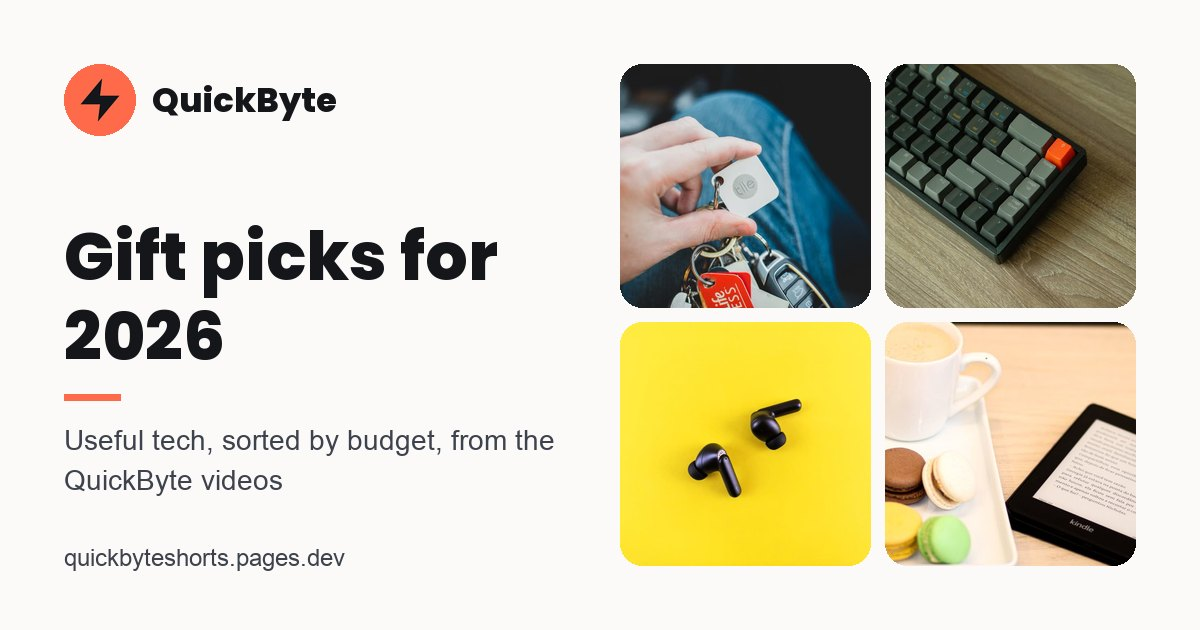
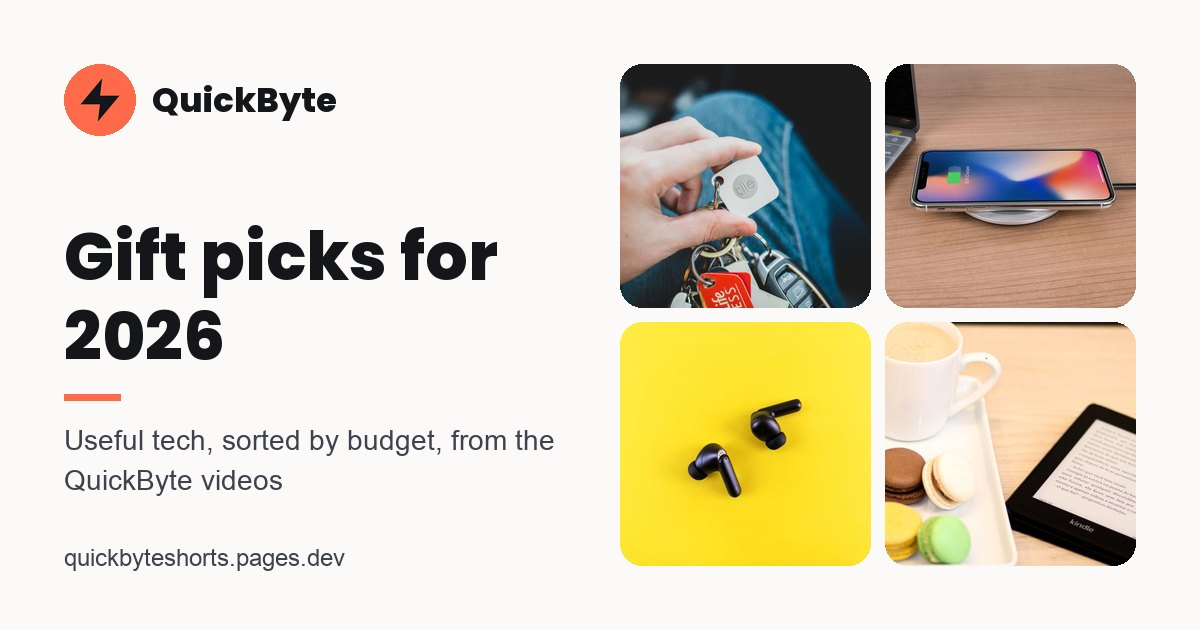
Automated cycle: update landing page

Changed region(s): [[0.74, 0.0905, 0.9558, 0.5127]]

diff --git a/docs/index.html b/docs/index.html
@@ -89,7 +89,7 @@ footer{color:var(--muted);font-size:.82rem;text-align:center;padding:24px 20px 3
 footer a{color:inherit}
 @media (max-width:520px){.season{font-size:1.45rem}.wrap{padding-top:26px}.feature .name{font-size:1.15rem}}
 </style>
-<script type="application/ld+json">{"@context": "https://schema.org", "@graph": [{"@type": "WebSite", "@id": "https://quickbyteshorts.pages.dev/#website", "name": "QuickByte", "url": "https://quickbyteshorts.pages.dev/", "description": "Short videos on which tech is worth buying, and which isn't"}, {"@type": "ItemList", "name": "Gift picks for 2026", "numberOfItems": 17, "itemListElement": [{"@type": "ListItem", "position": 1, "name": "Tile Mate tracker", "url": "https://quickbyteshorts.pages.dev/#pick-tile-mate"}, {"@type": "ListItem", "position": 2, "name": "Anker Nano 30W USB-C charger", "url": "https://quickbyteshorts.pages.dev/#pick-anker-nano-charger"}, {"@type": "ListItem", "position": 3, "name": "UGREEN 240W USB-C cable (USB4)", "url": "https://quickbyteshorts.pages.dev/#pick-ugreen-usb4-cable"}, {"@type": "ListItem", "position": 4, "name": "Redragon K552 mechanical keyboard", "url": "https://quickbyteshorts.pages.dev/#pick-redragon-k552-keyboard"}, {"@type": "ListItem", "position": 5, "name": "Anker Nano power bank (10,000mAh)", "url": "https://quickbyteshorts.pages.dev/#pick-anker-nano-power-bank"}, {"@type": "ListItem", "position": 6, "name": "Kindle Paperwhite", "url": "https://quickbyteshorts.pages.dev/#pick-kindle-paperwhite"}, {"@type": "ListItem", "position": 7, "name": "ThermoPro TP19H instant-read thermometer", "url": "https://quickbyteshorts.pages.dev/#pick-thermopro-tp19h"}, {"@type": "ListItem", "position": 8, "name": "MagicFiber microfiber cloths (6-pack)", "url": "https://quickbyteshorts.pages.dev/#pick-magicfiber-cloths"}, {"@type": "ListItem", "position": 9, "name": "Belkin Qi2 magnetic charger", "url": "https://quickbyteshorts.pages.dev/#pick-belkin-qi2-charger"}, {"@type": "ListItem", "position": 10, "name": "4K streaming stick", "url": "https://quickbyteshorts.pages.dev/#pick-streaming-stick"}, {"@type": "ListItem", "position": 11, "name": "Echo Pop or Nest Mini", "url": "https://quickbyteshorts.pages.dev/#pick-smart-speaker"}, {"@type": "ListItem", "position": 12, "name": "Soundcore Liberty 4 NC earbuds", "url": "https://quickbyteshorts.pages.dev/#pick-soundcore-liberty-4-nc"}, {"@type": "ListItem", "position": 13, "name": "Kodak Step mini photo printer", "url": "https://quickbyteshorts.pages.dev/#pick-kodak-step-printer"}, {"@type": "ListItem", "position": 14, "name": "Cosori Pro LE 5-quart air fryer", "url": "https://quickbyteshorts.pages.dev/#pick-cosori-air-fryer-5qt"}, {"@type": "ListItem", "position": 15, "name": "Baratza Encore burr grinder", "url": "https://quickbyteshorts.pages.dev/#pick-baratza-encore"}, {"@type": "ListItem", "position": 16, "name": "Wi-Fi photo frame", "url": "https://quickbyteshorts.pages.dev/#pick-wifi-photo-frame"}, {"@type": "ListItem", "position": 17, "name": "Samsung 870 EVO SSD (500GB)", "url": "https://quickbyteshorts.pages.dev/#pick-samsung-870-evo-ssd"}]}]}</script>
+<script type="application/ld+json">{"@context": "https://schema.org", "@graph": [{"@type": "WebSite", "@id": "https://quickbyteshorts.pages.dev/#website", "name": "QuickByte", "url": "https://quickbyteshorts.pages.dev/", "description": "Short videos on which tech is worth buying, and which isn't"}, {"@type": "ItemList", "name": "Gift picks for 2026", "numberOfItems": 17, "itemListElement": [{"@type": "ListItem", "position": 1, "name": "Tile Mate tracker", "url": "https://quickbyteshorts.pages.dev/#pick-tile-mate"}, {"@type": "ListItem", "position": 2, "name": "Anker Nano 30W USB-C charger", "url": "https://quickbyteshorts.pages.dev/#pick-anker-nano-charger"}, {"@type": "ListItem", "position": 3, "name": "UGREEN 240W USB-C cable (USB4)", "url": "https://quickbyteshorts.pages.dev/#pick-ugreen-usb4-cable"}, {"@type": "ListItem", "position": 4, "name": "Belkin Qi2 magnetic charger", "url": "https://quickbyteshorts.pages.dev/#pick-belkin-qi2-charger"}, {"@type": "ListItem", "position": 5, "name": "Redragon K552 mechanical keyboard", "url": "https://quickbyteshorts.pages.dev/#pick-redragon-k552-keyboard"}, {"@type": "ListItem", "position": 6, "name": "Anker Nano power bank (10,000mAh)", "url": "https://quickbyteshorts.pages.dev/#pick-anker-nano-power-bank"}, {"@type": "ListItem", "position": 7, "name": "Kindle Paperwhite", "url": "https://quickbyteshorts.pages.dev/#pick-kindle-paperwhite"}, {"@type": "ListItem", "position": 8, "name": "ThermoPro TP19H instant-read thermometer", "url": "https://quickbyteshorts.pages.dev/#pick-thermopro-tp19h"}, {"@type": "ListItem", "position": 9, "name": "MagicFiber microfiber cloths (6-pack)", "url": "https://quickbyteshorts.pages.dev/#pick-magicfiber-cloths"}, {"@type": "ListItem", "position": 10, "name": "4K streaming stick", "url": "https://quickbyteshorts.pages.dev/#pick-streaming-stick"}, {"@type": "ListItem", "position": 11, "name": "Echo Pop or Nest Mini", "url": "https://quickbyteshorts.pages.dev/#pick-smart-speaker"}, {"@type": "ListItem", "position": 12, "name": "Soundcore Liberty 4 NC earbuds", "url": "https://quickbyteshorts.pages.dev/#pick-soundcore-liberty-4-nc"}, {"@type": "ListItem", "position": 13, "name": "Kodak Step mini photo printer", "url": "https://quickbyteshorts.pages.dev/#pick-kodak-step-printer"}, {"@type": "ListItem", "position": 14, "name": "Cosori Pro LE 5-quart air fryer", "url": "https://quickbyteshorts.pages.dev/#pick-cosori-air-fryer-5qt"}, {"@type": "ListItem", "position": 15, "name": "Baratza Encore burr grinder", "url": "https://quickbyteshorts.pages.dev/#pick-baratza-encore"}, {"@type": "ListItem", "position": 16, "name": "Wi-Fi photo frame", "url": "https://quickbyteshorts.pages.dev/#pick-wifi-photo-frame"}, {"@type": "ListItem", "position": 17, "name": "Samsung 870 EVO SSD (500GB)", "url": "https://quickbyteshorts.pages.dev/#pick-samsung-870-evo-ssd"}]}]}</script>
 </head>
 <body>
 <div class="wrap">
@@ -98,18 +98,18 @@ footer a{color:inherit}
 <nav class="socials" aria-label="QuickByte on social media"><a href="https://www.youtube.com/@quickbytetips" target="_blank" rel="noopener me">YouTube</a><a href="https://www.tiktok.com/@quickbytetips" target="_blank" rel="noopener me">TikTok</a><a href="https://www.instagram.com/quickbytetips" target="_blank" rel="noopener me">Instagram</a></nav>
 <p class="disc">The Amazon links on this page are affiliate links. As an Amazon Associate I earn from qualifying purchases.</p>
 <main>
-<section class="latest" aria-labelledby="latest-h"><h2 id="latest-h">From today's video</h2><article class="feature"><div class="ph"><picture><source type="image/webp" srcset="img/kindle-e-reader-480.webp 480w, img/kindle-e-reader-800.webp 800w" sizes="(max-width:700px) calc(100vw - 40px), 500px"><img src="img/kindle-e-reader.jpg" alt="" width="800" height="600" fetchpriority="high" decoding="async"></picture></div><div class="body">
+<section class="latest" aria-labelledby="latest-h"><h2 id="latest-h">From today's video</h2><article class="feature"><div class="ph"><picture><source type="image/webp" srcset="img/qi2-magnetic-wireless-charger-480.webp 480w, img/qi2-magnetic-wireless-charger-800.webp 800w" sizes="(max-width:700px) calc(100vw - 40px), 500px"><img src="img/qi2-magnetic-wireless-charger.jpg" alt="" width="800" height="600" fetchpriority="high" decoding="async"></picture></div><div class="body">
+<h3 class="name">Belkin Qi2 magnetic charger</h3>
+<p class="seen">From the video: Qi2 vs MagSafe: do you need a new wireless charger?</p><p class="note">Snaps into place so the phone charges at full speed instead of running warm on a misaligned pad.</p>
+<div class="row"><a class="buy" href="https://www.amazon.com/dp/B0F8LMHB64?tag=quickbyte0f-20" target="_blank" rel="sponsored nofollow noopener">See it on Amazon</a><span class="paid">Paid link</span></div>
+</div></article><h2>Also from recent videos</h2><div class="grid wide"><article class="pick compact"><div class="ph"><picture><source type="image/webp" srcset="img/kindle-e-reader-480.webp 480w, img/kindle-e-reader-800.webp 800w" sizes="160px"><img src="img/kindle-e-reader.jpg" alt="" width="800" height="600" loading="lazy" decoding="async"></picture></div><div class="body">
 <h3 class="name">Kindle Paperwhite</h3>
-<p class="seen">From the video: Kindle or a tablet: what to get the reader on your list</p><p class="note">Paper-like screen, weeks of battery and nothing pinging them mid-chapter. In the US it borrows library books through Libby.</p>
-<div class="row"><a class="buy" href="https://www.amazon.com/s?k=Kindle+Paperwhite&amp;tag=quickbyte0f-20" target="_blank" rel="sponsored nofollow noopener">See it on Amazon</a><span class="paid">Paid link</span></div>
-</div></article><h2>Also from recent videos</h2><div class="grid wide"><article class="pick compact"><div class="ph"><picture><source type="image/webp" srcset="img/tile-mate-bluetooth-tracker-480.webp 480w, img/tile-mate-bluetooth-tracker-800.webp 800w" sizes="160px"><img src="img/tile-mate-bluetooth-tracker.jpg" alt="" width="800" height="600" loading="lazy" decoding="async"></picture></div><div class="body">
+<p class="seen">From: Kindle or a tablet: what to get the reader on your list</p><p class="note">Paper-like screen, weeks of battery and nothing pinging them mid-chapter. In the US it borrows library books through Libby.</p>
+<div class="row"><a class="buy" href="https://www.amazon.com/s?k=Kindle+Paperwhite&amp;tag=quickbyte0f-20" target="_blank" rel="sponsored nofollow noopener">See it on Amazon</a><span class="paid">Paid link</span><a class="watch" href="https://www.youtube.com/shorts/ZfM51qdsPx0" target="_blank" rel="noopener">Watch the video</a></div>
+</div></article><article class="pick compact"><div class="ph"><picture><source type="image/webp" srcset="img/tile-mate-bluetooth-tracker-480.webp 480w, img/tile-mate-bluetooth-tracker-800.webp 800w" sizes="160px"><img src="img/tile-mate-bluetooth-tracker.jpg" alt="" width="800" height="600" loading="lazy" decoding="async"></picture></div><div class="body">
 <h3 class="name">Tile Mate tracker</h3>
 <p class="seen">From: AirTag or Tile? Check their phone before you buy one</p><p class="note">Works with iPhone and Android, so it&#x27;s the safe tracker gift when you don&#x27;t know what phone they have.</p>
 <div class="row"><a class="buy" href="https://www.amazon.com/dp/B09998MBFM?tag=quickbyte0f-20" target="_blank" rel="sponsored nofollow noopener">See it on Amazon</a><span class="paid">Paid link</span><a class="watch" href="https://www.youtube.com/shorts/zlaf1SSanx8" target="_blank" rel="noopener">Watch the video</a></div>
-</div></article><article class="pick compact"><div class="ph"><picture><source type="image/webp" srcset="img/30w-usb-c-pd-gan-charger-480.webp 480w, img/30w-usb-c-pd-gan-charger-800.webp 800w" sizes="160px"><img src="img/30w-usb-c-pd-gan-charger.jpg" alt="" width="800" height="600" loading="lazy" decoding="async"></picture></div><div class="body">
-<h3 class="name">Anker Nano 30W USB-C charger</h3>
-<p class="seen">From: Your phone charges slowly because of the brick, not the cable</p><p class="note">Most phones don&#x27;t come with a charger anymore, and this one is pocket-sized but fast enough for a phone or an iPad.</p>
-<div class="row"><a class="buy" href="https://www.amazon.com/dp/B0B2MM1W65?tag=quickbyte0f-20" target="_blank" rel="sponsored nofollow noopener">See it on Amazon</a><span class="paid">Paid link</span><a class="watch" href="https://www.youtube.com/shorts/07cvN6GbG20" target="_blank" rel="noopener">Watch the video</a></div>
 </div></article></div></section><h1 class="season" id="gifts">Gift picks for 2026</h1><p class="season-sub">Each pick comes from a QuickByte video (a few of those videos are still on the way). Useful things, sensibly priced, that we'd tell a friend to buy. Sorted by budget.</p><nav class="jump" aria-label="Budgets"><a href="#under-25">Under $25</a><a href="#under-50">Under $50</a><a href="#under-100">Under $100</a><a href="#worth-the-splurge">Worth the splurge</a></nav><h2 id="under-25">Under $25</h2><div class="grid"><article class="pick" id="pick-tile-mate"><div class="ph"><picture><source type="image/webp" srcset="img/tile-mate-bluetooth-tracker-480.webp 480w, img/tile-mate-bluetooth-tracker-800.webp 800w" sizes="(max-width:640px) calc(100vw - 40px), 320px"><img src="img/tile-mate-bluetooth-tracker.jpg" alt="" width="800" height="600" loading="lazy" decoding="async"></picture></div><div class="body">
 <h3 class="name">Tile Mate tracker</h3>
 <p class="note">Works with iPhone and Android, so it&#x27;s the safe tracker gift when you don&#x27;t know what phone they have.</p>
@@ -130,7 +130,11 @@ footer a{color:inherit}
 <h3 class="name">MagicFiber microfiber cloths (6-pack)</h3>
 <p class="note">The only thing that should touch a screen. Cheap, washable, and a solid stocking stuffer.</p>
 <div class="row"><a class="buy" href="https://www.amazon.com/dp/B0050R67U0?tag=quickbyte0f-20" target="_blank" rel="sponsored nofollow noopener">See it on Amazon</a><span class="paid">Paid link</span></div>
-</div></article></div><h2 id="under-50">Under $50</h2><div class="grid"><article class="pick" id="pick-redragon-k552-keyboard"><div class="ph"><picture><source type="image/webp" srcset="img/budget-mechanical-keyboard-480.webp 480w, img/budget-mechanical-keyboard-800.webp 800w" sizes="(max-width:640px) calc(100vw - 40px), 320px"><img src="img/budget-mechanical-keyboard.jpg" alt="" width="800" height="600" loading="lazy" decoding="async"></picture></div><div class="body">
+</div></article></div><h2 id="under-50">Under $50</h2><div class="grid"><article class="pick" id="pick-belkin-qi2-charger"><div class="ph"><picture><source type="image/webp" srcset="img/qi2-magnetic-wireless-charger-480.webp 480w, img/qi2-magnetic-wireless-charger-800.webp 800w" sizes="(max-width:640px) calc(100vw - 40px), 320px"><img src="img/qi2-magnetic-wireless-charger.jpg" alt="" width="800" height="600" loading="lazy" decoding="async"></picture></div><div class="body">
+<h3 class="name">Belkin Qi2 magnetic charger</h3>
+<p class="note">Snaps into place so the phone charges at full speed instead of running warm on a misaligned pad.</p>
+<div class="row"><a class="buy" href="https://www.amazon.com/dp/B0F8LMHB64?tag=quickbyte0f-20" target="_blank" rel="sponsored nofollow noopener">See it on Amazon</a><span class="paid">Paid link</span></div>
+</div></article><article class="pick" id="pick-redragon-k552-keyboard"><div class="ph"><picture><source type="image/webp" srcset="img/budget-mechanical-keyboard-480.webp 480w, img/budget-mechanical-keyboard-800.webp 800w" sizes="(max-width:640px) calc(100vw - 40px), 320px"><img src="img/budget-mechanical-keyboard.jpg" alt="" width="800" height="600" loading="lazy" decoding="async"></picture></div><div class="body">
 <h3 class="name">Redragon K552 mechanical keyboard</h3>
 <p class="note">A compact, sturdy mechanical board for a fraction of the big-name price. Great first keyboard for a teen or a new desk setup.</p>
 <div class="row"><a class="buy" href="https://www.amazon.com/dp/B016MAK38U?tag=quickbyte0f-20" target="_blank" rel="sponsored nofollow noopener">See it on Amazon</a><span class="paid">Paid link</span><a class="watch" href="https://www.youtube.com/shorts/F7UZa16uvv4" target="_blank" rel="noopener">Watch the video</a></div>
@@ -138,10 +142,6 @@ footer a{color:inherit}
 <h3 class="name">Anker Nano power bank (10,000mAh)</h3>
 <p class="note">Built-in USB-C cable and 30W output, so it actually fast-charges a phone instead of trickling.</p>
 <div class="row"><a class="buy" href="https://www.amazon.com/dp/B0C9CJKCH3?tag=quickbyte0f-20" target="_blank" rel="sponsored nofollow noopener">See it on Amazon</a><span class="paid">Paid link</span><a class="watch" href="https://www.youtube.com/shorts/fx5Mr8gkuYM" target="_blank" rel="noopener">Watch the video</a></div>
-</div></article><article class="pick" id="pick-belkin-qi2-charger"><div class="ph"><picture><source type="image/webp" srcset="img/qi2-magnetic-wireless-charger-480.webp 480w, img/qi2-magnetic-wireless-charger-800.webp 800w" sizes="(max-width:640px) calc(100vw - 40px), 320px"><img src="img/qi2-magnetic-wireless-charger.jpg" alt="" width="800" height="600" loading="lazy" decoding="async"></picture></div><div class="body">
-<h3 class="name">Belkin Qi2 magnetic charger</h3>
-<p class="note">Snaps into place so the phone charges at full speed instead of running warm on a misaligned pad.</p>
-<div class="row"><a class="buy" href="https://www.amazon.com/dp/B0F8LMHB64?tag=quickbyte0f-20" target="_blank" rel="sponsored nofollow noopener">See it on Amazon</a><span class="paid">Paid link</span></div>
 </div></article><article class="pick" id="pick-streaming-stick"><div class="ph"><picture><source type="image/webp" srcset="img/4k-streaming-stick-480.webp 480w, img/4k-streaming-stick-800.webp 800w" sizes="(max-width:640px) calc(100vw - 40px), 320px"><img src="img/4k-streaming-stick.jpg" alt="" width="800" height="600" loading="lazy" decoding="async"></picture></div><div class="body">
 <h3 class="name">4K streaming stick</h3>
 <p class="note">The cheapest way to make an older or slow smart TV feel new. Roku, Fire TV and Google TV all have the big apps.</p>
@@ -165,7 +165,7 @@ footer a{color:inherit}
 </div></article></div><h2 id="worth-the-splurge">Worth the splurge</h2><div class="grid"><article class="pick" id="pick-kindle-paperwhite"><div class="ph"><picture><source type="image/webp" srcset="img/kindle-e-reader-480.webp 480w, img/kindle-e-reader-800.webp 800w" sizes="(max-width:640px) calc(100vw - 40px), 320px"><img src="img/kindle-e-reader.jpg" alt="" width="800" height="600" loading="lazy" decoding="async"></picture></div><div class="body">
 <h3 class="name">Kindle Paperwhite</h3>
 <p class="note">Paper-like screen, weeks of battery and nothing pinging them mid-chapter. In the US it borrows library books through Libby.</p>
-<div class="row"><a class="buy" href="https://www.amazon.com/s?k=Kindle+Paperwhite&amp;tag=quickbyte0f-20" target="_blank" rel="sponsored nofollow noopener">See it on Amazon</a><span class="paid">Paid link</span></div>
+<div class="row"><a class="buy" href="https://www.amazon.com/s?k=Kindle+Paperwhite&amp;tag=quickbyte0f-20" target="_blank" rel="sponsored nofollow noopener">See it on Amazon</a><span class="paid">Paid link</span><a class="watch" href="https://www.youtube.com/shorts/ZfM51qdsPx0" target="_blank" rel="noopener">Watch the video</a></div>
 </div></article><article class="pick" id="pick-baratza-encore"><div class="ph"><picture><source type="image/webp" srcset="img/conical-burr-coffee-grinder-480.webp 480w, img/conical-burr-coffee-grinder-800.webp 800w" sizes="(max-width:640px) calc(100vw - 40px), 320px"><img src="img/conical-burr-coffee-grinder.jpg" alt="" width="800" height="600" loading="lazy" decoding="async"></picture></div><div class="body">
 <h3 class="name">Baratza Encore burr grinder</h3>
 <p class="note">Grinds every bean to the same size, which does more for the taste of your coffee than a new coffee maker.</p>
@@ -178,7 +178,7 @@ footer a{color:inherit}
 <h3 class="name">Samsung 870 EVO SSD (500GB)</h3>
 <p class="note">The upgrade that makes an old laptop boot in seconds instead of minutes. Check that your laptop takes a 2.5-inch drive first.</p>
 <div class="row"><a class="buy" href="https://www.amazon.com/dp/B08QBMD6P4?tag=quickbyte0f-20" target="_blank" rel="sponsored nofollow noopener">See it on Amazon</a><span class="paid">Paid link</span></div>
-</div></article></div><p class="fine">We earn a small commission if you buy through these links, at no extra cost to you, and nobody pays to be on this page. Budget groups are based on typical prices when we chose each pick; Amazon shows the current price. Photos show the kind of product, not always the exact model.</p><h2 id="videos">Latest videos</h2><ul class="vids"><li><a href="https://www.youtube.com/shorts/HFDecg8Sfrk" target="_blank" rel="noopener"><span>Travel eSIM vs your carrier&#x27;s day pass: what to use abroad</span><span>Watch</span></a></li><li><a href="https://www.youtube.com/shorts/zlaf1SSanx8" target="_blank" rel="noopener"><span>AirTag or Tile? Check their phone before you buy one</span><span>Watch</span></a></li><li><a href="https://www.youtube.com/shorts/07cvN6GbG20" target="_blank" rel="noopener"><span>Your phone charges slowly because of the brick, not the cable</span><span>Watch</span></a></li><li><a href="https://www.youtube.com/shorts/c_vExPM8O3w" target="_blank" rel="noopener"><span>Three tech gifts under $30 people actually use</span><span>Watch</span></a></li><li><a href="https://www.youtube.com/shorts/0XX0cCefPyw" target="_blank" rel="noopener"><span>eSIM vs a physical SIM card: what actually changes for you</span><span>Watch</span></a></li><li><a href="https://www.youtube.com/shorts/2sWIIXGx2iw" target="_blank" rel="noopener"><span>You don&#x27;t need a $1,000 phone. Here&#x27;s what the expensive one actually adds</span><span>Watch</span></a></li><li><a href="https://www.youtube.com/shorts/p5rjeAwEhS0" target="_blank" rel="noopener"><span>Why two identical USB-C cables can charge at totally different speeds</span><span>Watch</span></a></li><li><a href="https://www.youtube.com/shorts/Bk_amU1xUcM" target="_blank" rel="noopener"><span>Three signs a cheap charger is actually dangerous, not just low quality</span><span>Watch</span></a></li><li><a href="https://www.youtube.com/shorts/knvkyxutnIs" target="_blank" rel="noopener"><span>That old phone in your drawer can replace a $60 security camera</span><span>Watch</span></a></li><li><a href="https://www.youtube.com/shorts/KJKDggHqN4Y" target="_blank" rel="noopener"><span>Why the USB-C switch actually matters, not just for cables</span><span>Watch</span></a></li><li><a href="https://www.youtube.com/shorts/F7UZa16uvv4" target="_blank" rel="noopener"><span>You don&#x27;t need a $150 keyboard to stop hating how you type</span><span>Watch</span></a></li><li><a href="https://www.youtube.com/shorts/jSKiF74CtXQ" target="_blank" rel="noopener"><span>The gesture built into your phone that almost nobody turns on</span><span>Watch</span></a></li></ul>
+</div></article></div><p class="fine">We earn a small commission if you buy through these links, at no extra cost to you, and nobody pays to be on this page. Budget groups are based on typical prices when we chose each pick; Amazon shows the current price. Photos show the kind of product, not always the exact model.</p><h2 id="videos">Latest videos</h2><ul class="vids"><li><a href="https://www.youtube.com/shorts/ZfM51qdsPx0" target="_blank" rel="noopener"><span>Kindle or a tablet: what to get the reader on your list</span><span>Watch</span></a></li><li><a href="https://www.youtube.com/shorts/HFDecg8Sfrk" target="_blank" rel="noopener"><span>Travel eSIM vs your carrier&#x27;s day pass: what to use abroad</span><span>Watch</span></a></li><li><a href="https://www.youtube.com/shorts/zlaf1SSanx8" target="_blank" rel="noopener"><span>AirTag or Tile? Check their phone before you buy one</span><span>Watch</span></a></li><li><a href="https://www.youtube.com/shorts/07cvN6GbG20" target="_blank" rel="noopener"><span>Your phone charges slowly because of the brick, not the cable</span><span>Watch</span></a></li><li><a href="https://www.youtube.com/shorts/c_vExPM8O3w" target="_blank" rel="noopener"><span>Three tech gifts under $30 people actually use</span><span>Watch</span></a></li><li><a href="https://www.youtube.com/shorts/0XX0cCefPyw" target="_blank" rel="noopener"><span>eSIM vs a physical SIM card: what actually changes for you</span><span>Watch</span></a></li><li><a href="https://www.youtube.com/shorts/2sWIIXGx2iw" target="_blank" rel="noopener"><span>You don&#x27;t need a $1,000 phone. Here&#x27;s what the expensive one actually adds</span><span>Watch</span></a></li><li><a href="https://www.youtube.com/shorts/p5rjeAwEhS0" target="_blank" rel="noopener"><span>Why two identical USB-C cables can charge at totally different speeds</span><span>Watch</span></a></li><li><a href="https://www.youtube.com/shorts/Bk_amU1xUcM" target="_blank" rel="noopener"><span>Three signs a cheap charger is actually dangerous, not just low quality</span><span>Watch</span></a></li><li><a href="https://www.youtube.com/shorts/knvkyxutnIs" target="_blank" rel="noopener"><span>That old phone in your drawer can replace a $60 security camera</span><span>Watch</span></a></li><li><a href="https://www.youtube.com/shorts/KJKDggHqN4Y" target="_blank" rel="noopener"><span>Why the USB-C switch actually matters, not just for cables</span><span>Watch</span></a></li><li><a href="https://www.youtube.com/shorts/F7UZa16uvv4" target="_blank" rel="noopener"><span>You don&#x27;t need a $150 keyboard to stop hating how you type</span><span>Watch</span></a></li></ul>
 </main>
 </div>
 <footer>QuickByte &middot; @quickbytetips<br>As an Amazon Associate I earn from qualifying purchases. Amazon and the Amazon logo are trademarks of
